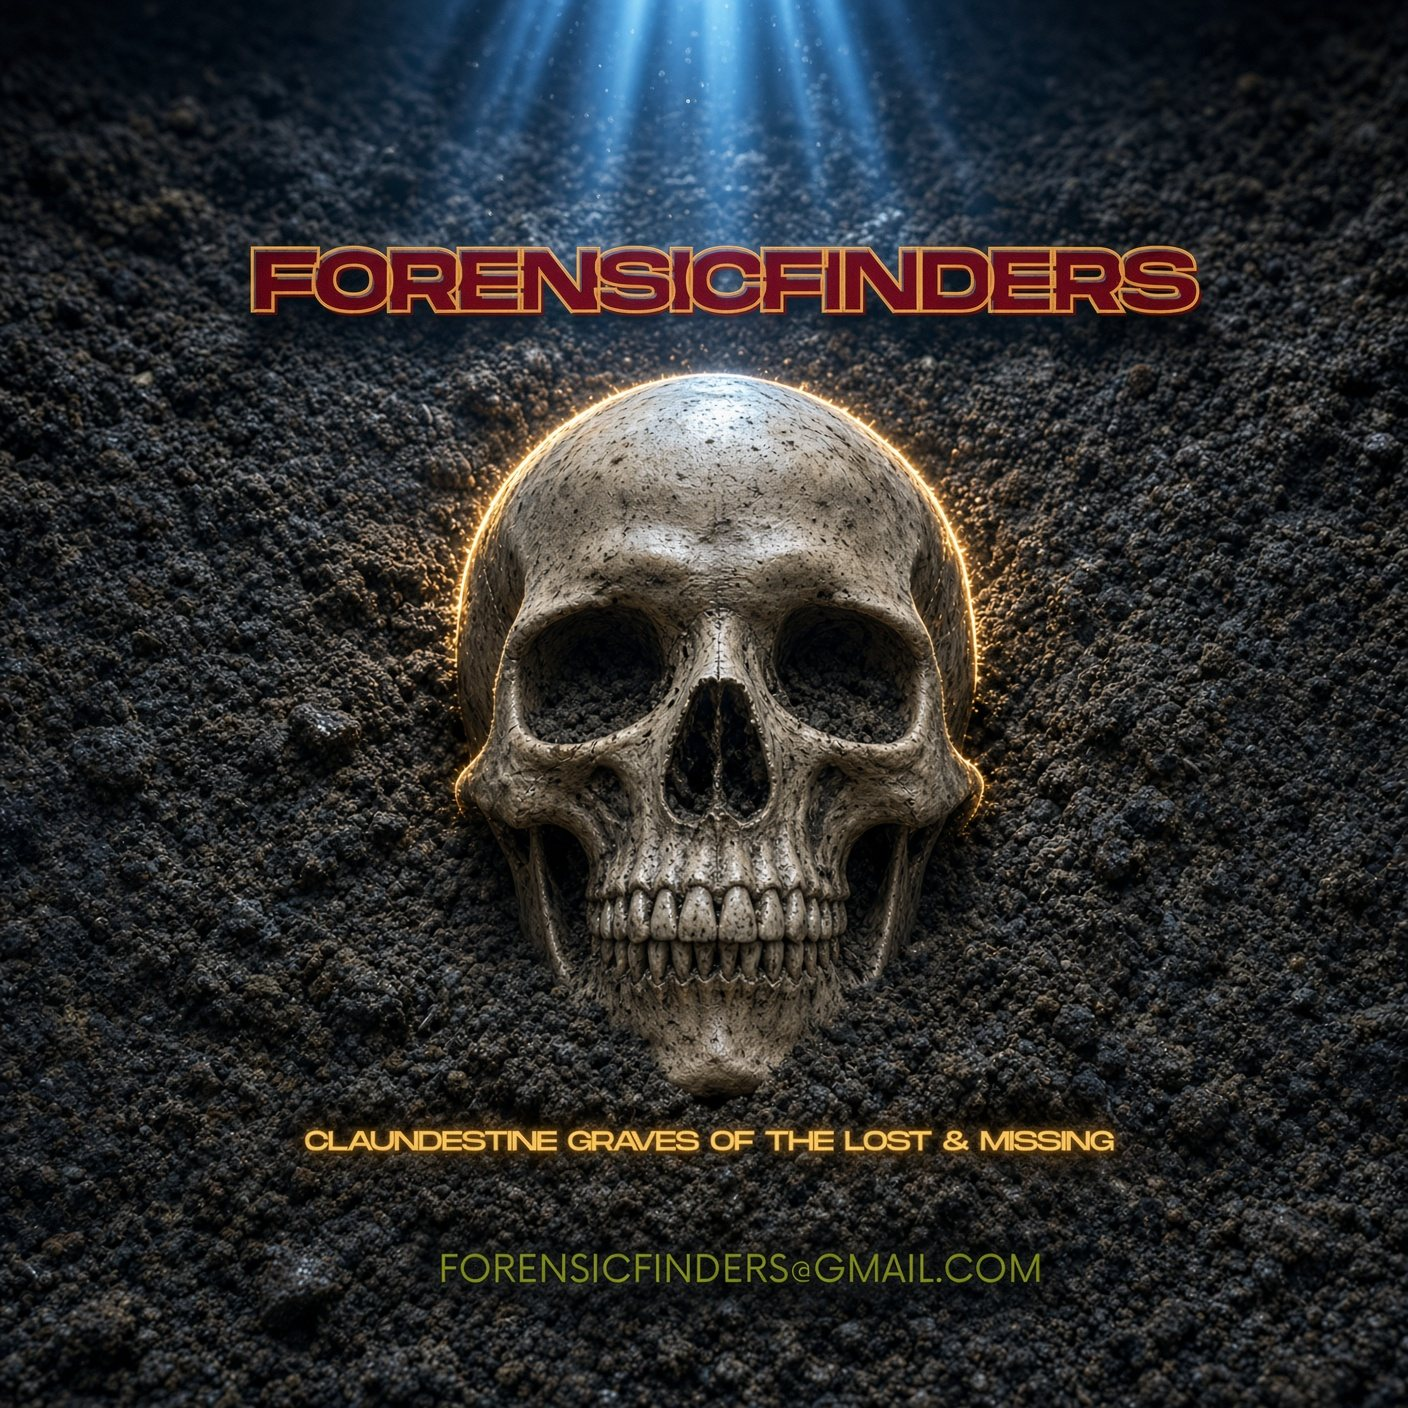
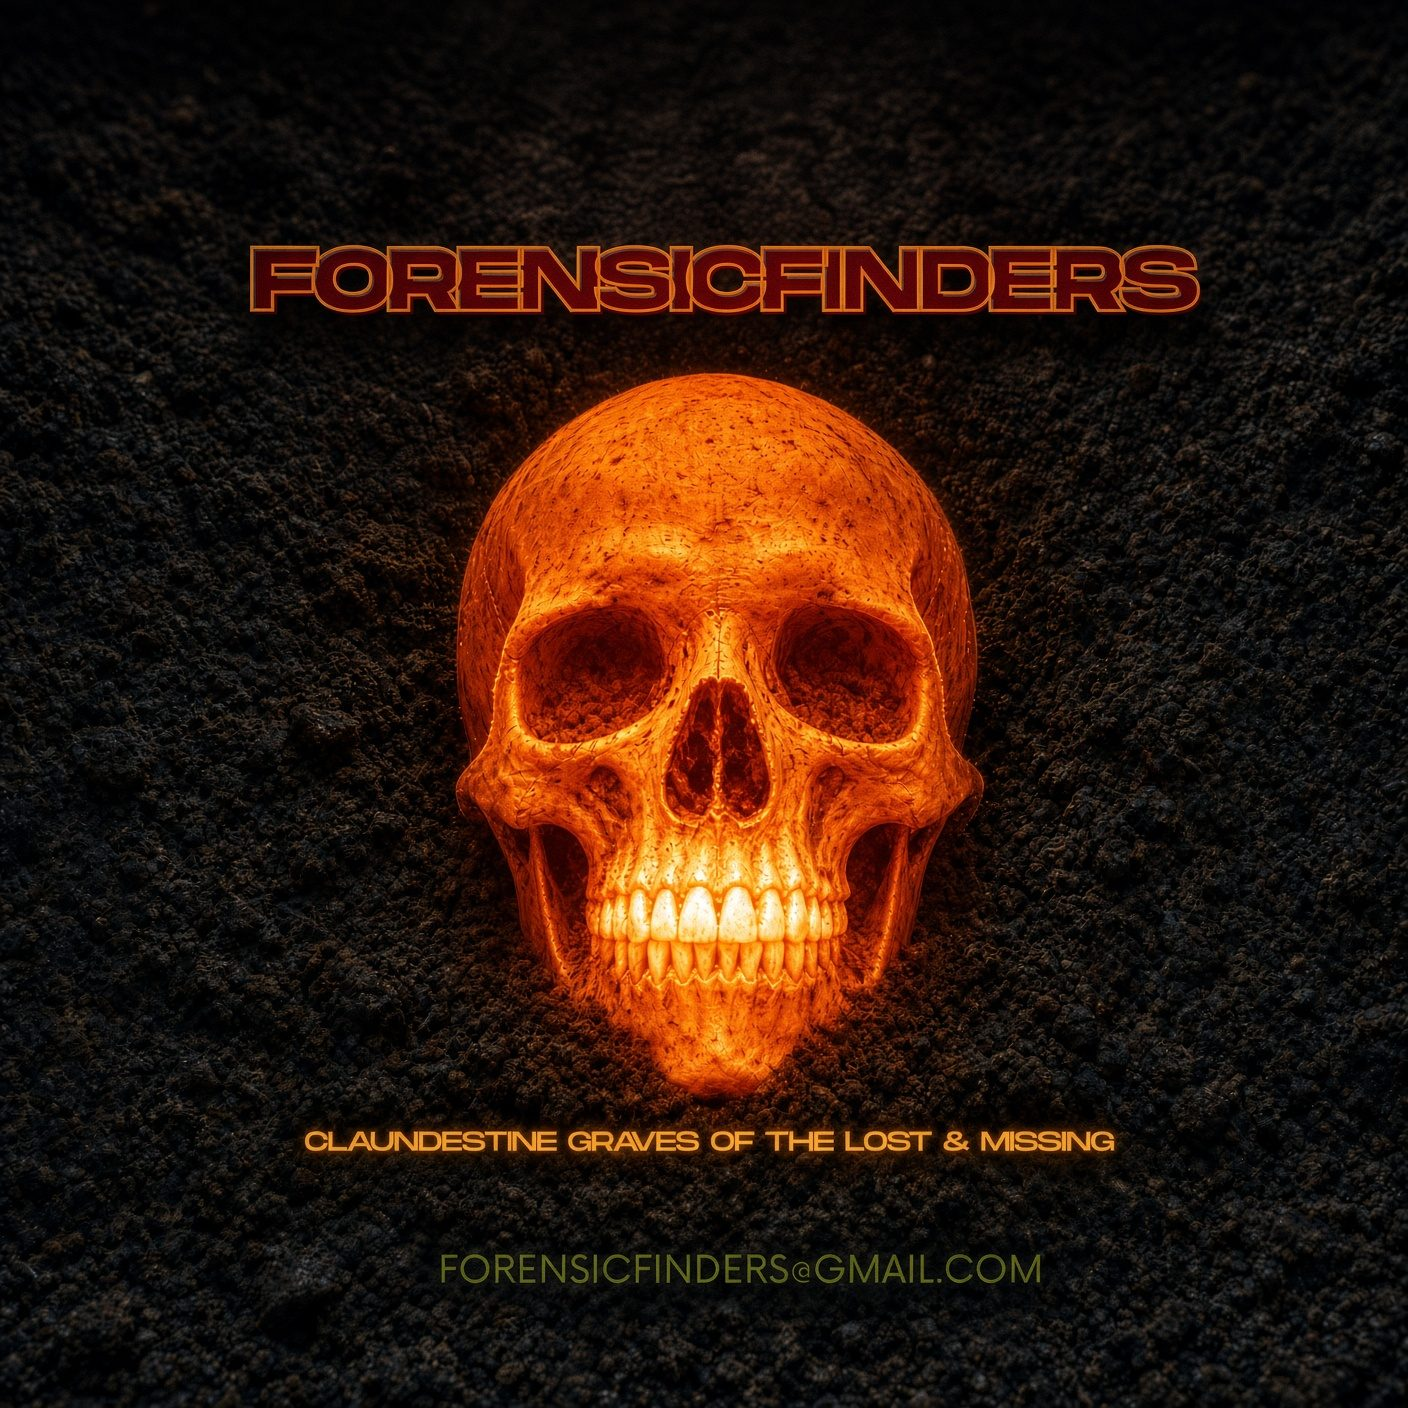
Render the mark as an ironbow thermal scan.
Cold ground stays dark. The bone is the warm return.

diff --git a/src/routes/__root.tsx b/src/routes/__root.tsx
@@ -19,7 +19,7 @@ export const Route = createRootRoute({
       { name: "theme-color", content: "#07090c" },
     ],
     links: [
-      { rel: "icon", type: "image/jpeg", href: "/brand/thermal-3d.jpg?v=3" },
+      { rel: "icon", type: "image/jpeg", href: "/brand/thermal-scan.jpg?v=4" },
       { rel: "stylesheet", href: appCss },
       { rel: "manifest", href: "/__grok/manifest.webmanifest" },
       { rel: "apple-touch-icon", href: "/__grok/icon-180.png" },

diff --git a/src/components/workbench.tsx b/src/components/workbench.tsx
@@ -214,7 +214,7 @@ export function Workbench() {
         <header className="hero">
           <h1 className="sr-only">Forensic finders</h1>
           <img
-            src="/brand/thermal-3d.jpg?v=3"
+            src="/brand/thermal-scan.jpg?v=4"
             alt="Forensicfinders mark. A skull in false color under the name. Illustration, not a burial."
           />
           <p className="hero-case">
